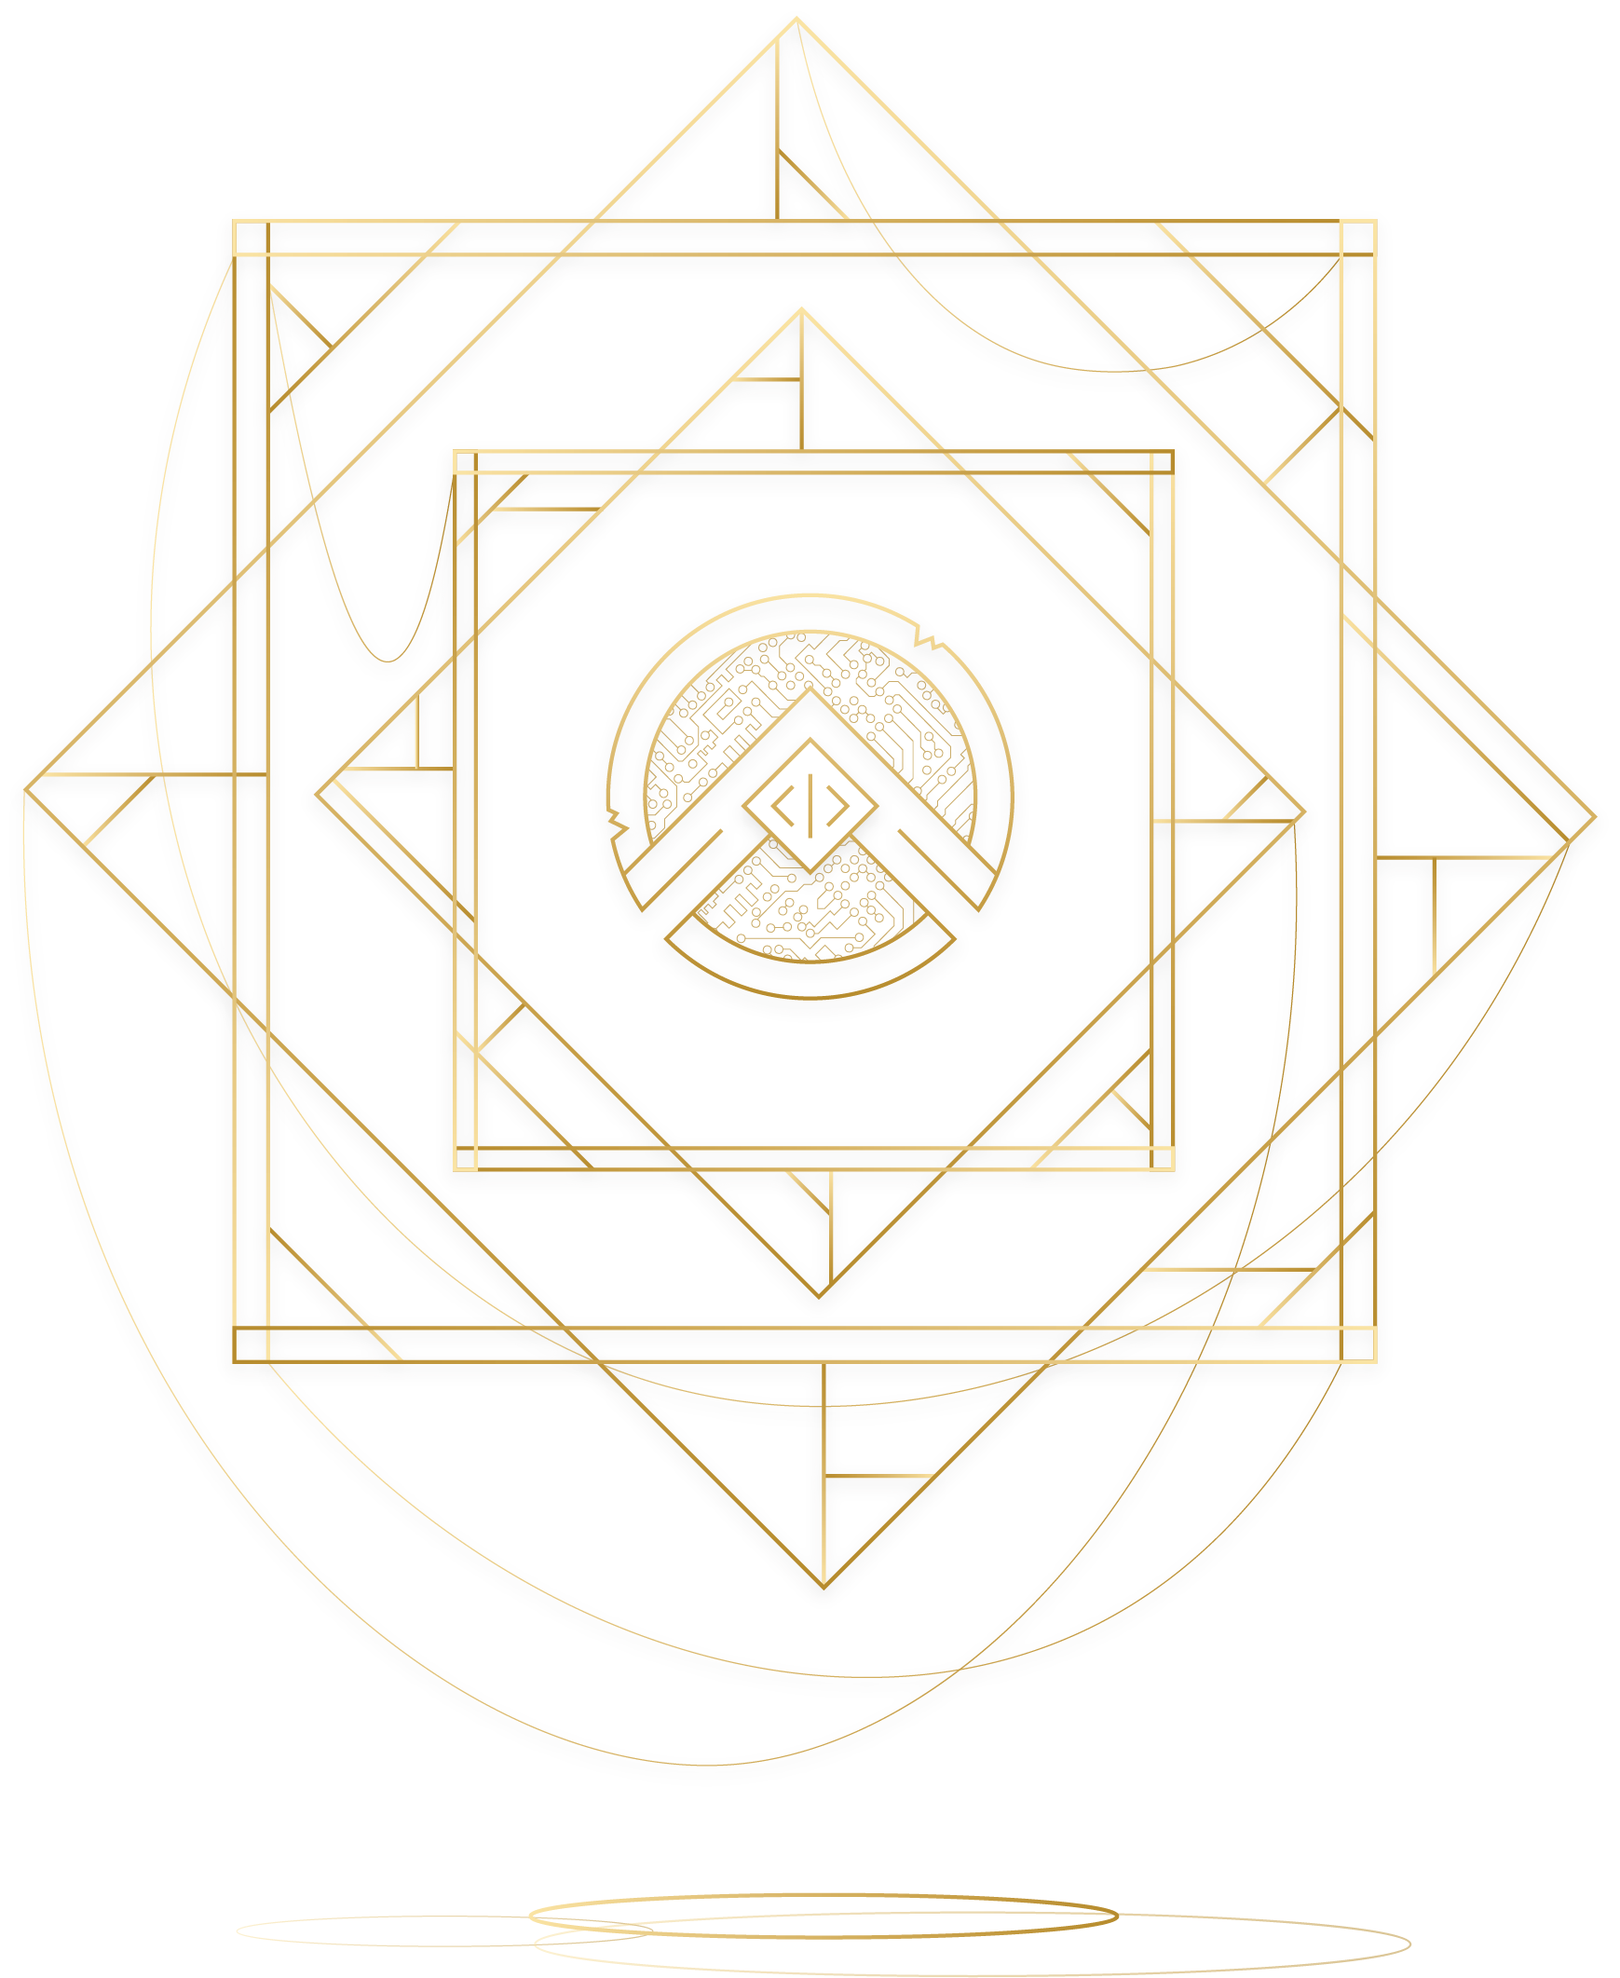
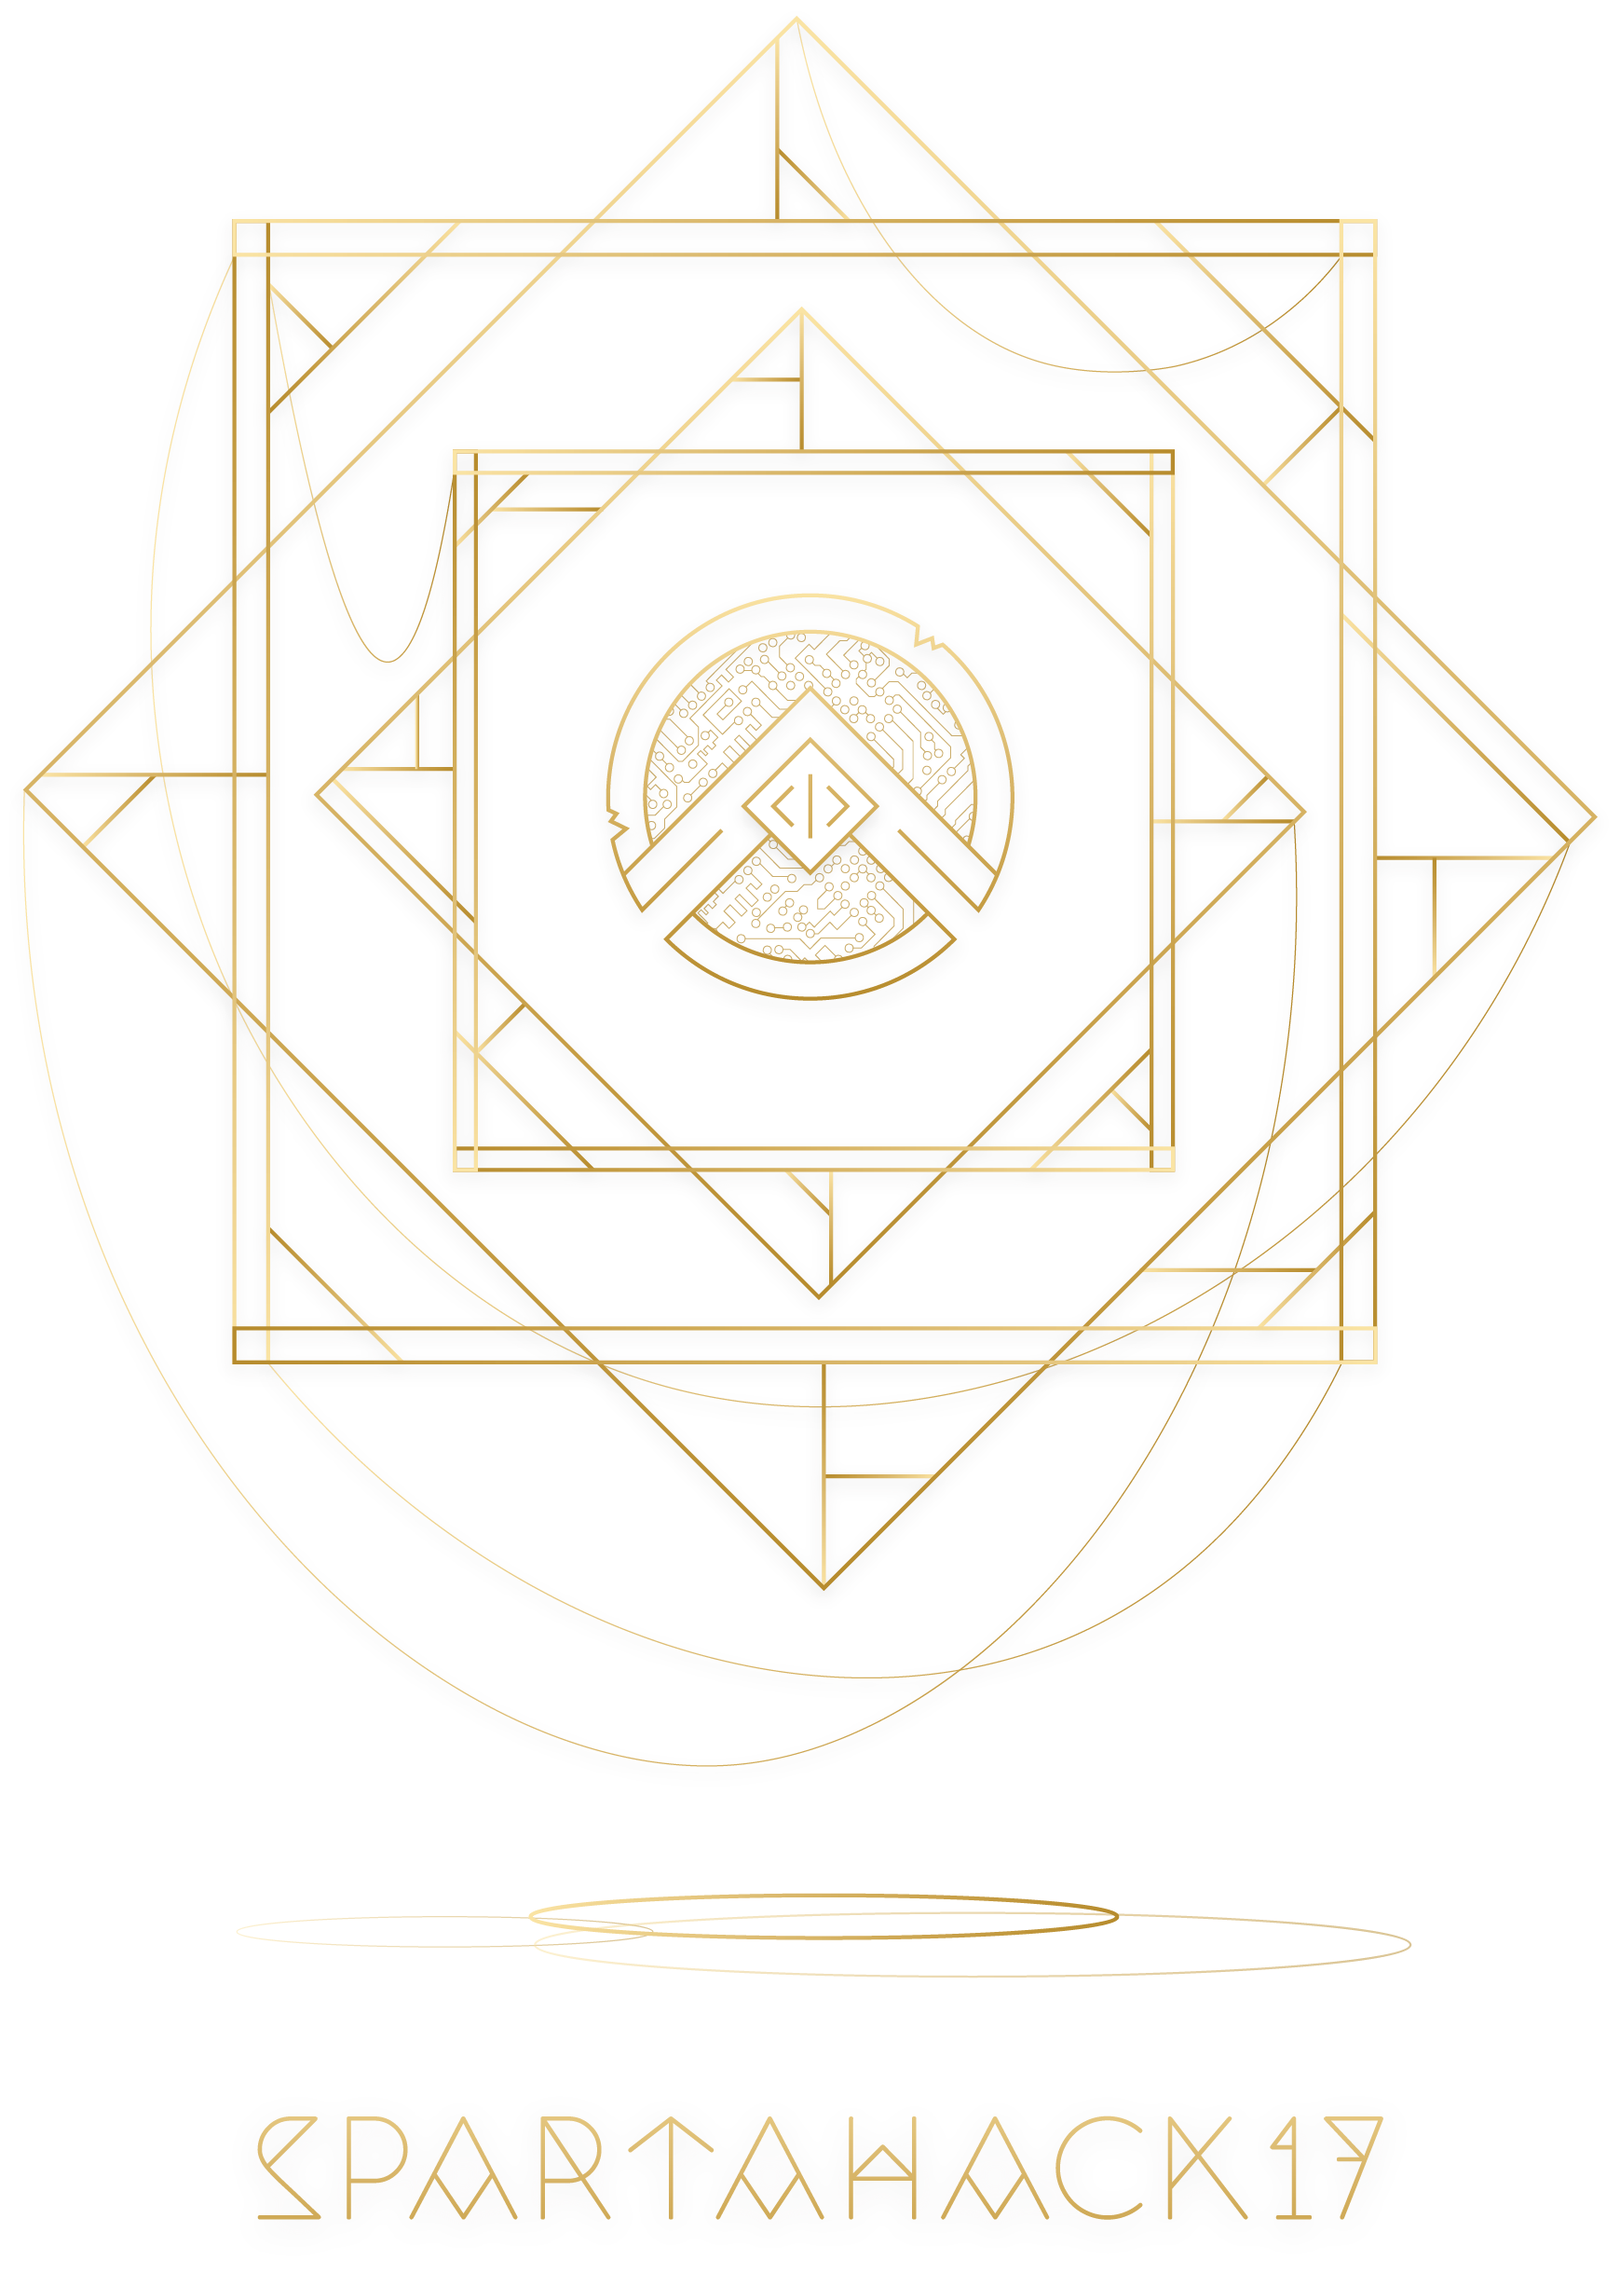
Few Updates to make SpartaHack even more appealing!

diff --git a/pages/spartahack.php b/pages/spartahack.php
@@ -26,16 +26,18 @@
 			<div class="project-frame" id="<>">
 				
 				<div class="project-cover spartahack">
-					<h1> </h1>
-					<h2> </h2></div>
+					<h1>SpartaHack17</h1>
+					<h2>Brand design for the hackathon, SpartaHack.</h2></div>
 				
 				<div class="project-content">
 					
-					<a href="#img1"><img class="no-shadow no-top" src="../style/imgs/projects/spartahack/1.png"/></a>
+					<p class="no-top">Content Coming Soon. Lorem ipsum dolor sit amet, consectetur adipiscing elit, sed do eiusmod tempor incididunt ut labore et dolore magna aliqua. Ut enim ad minim veniam, quis nostrud exercitation ullamco laboris nisi ut aliquip ex ea commodo consequat. Duis aute irure dolor in reprehenderit in voluptate velit esse cillum dolore eu fugiat nulla pariatur. Excepteur sint occaecat cupidatat non proident, sunt in culpa qui officia deserunt mollit anim id est laborum.</p>
+					
+					<a href="#img1"><img class="no-shadow" src="../style/imgs/projects/spartahack/1.png"/></a>
 					<a href="#_" class="lightbox" id="img1"><img src="../style/imgs/projects/spartahack/1.png"></a>
 							
-					<a href="#img2"><img class="no-shadow" src="../style/imgs/projects/spartahack/2.png"/></a>
-					<a href="#_" class="lightbox" id="img2"><img src="../style/imgs/projects/spartahack/2.png"></a>
+					<a href="#img2"><img class="no-shadow" src="../style/imgs/projects/spartahack/2.jpg"/></a>
+					<a href="#_" class="lightbox" id="img2"><img src="../style/imgs/projects/spartahack/2.jpg"></a>
 					
 					<a href="#img3"><img src="../style/imgs/projects/spartahack/3.jpg"/></a>
 					<a href="#_" class="lightbox" id="img3"><img src="../style/imgs/projects/spartahack/3.jpg"></a>

diff --git a/index.php b/index.php
@@ -33,7 +33,7 @@
 			<div class="tiles"><ul>
 					<li class="tile"><a href="pages/halo.php#<>"><div class="overlay"></div><img src="style/imgs/tiles/halo.png"/></a></li>
 					<li class="tile"><a href="pages/2030.php#<>"><div class="overlay"></div><img src="style/imgs/tiles/2030.png"/></a></li>
-					<li class="tile"><a href="pages/spartahack.php#<>"><div class="overlay"></div><img src="style/imgs/tiles/spartahack.png"/></a></li>
+					<li class="tile"><a href="pages/kresgo.php#<>"><div class="overlay"></div><img src="style/imgs/tiles/kresgo.png"/></a></li>
 					<li class="tile"><a href="pages/catastrophe.php#<>"><div class="overlay"></div><img src="style/imgs/tiles/catastrophe.png"/></a></li>
 					<li class="tile"><a href="pages/videno.php#<>"><div class="overlay"></div><img src="style/imgs/tiles/videno.png"/></a></li>
 					<div class="view-all-work"><div><a href="pages/-work.php" class="link-action">View All Work</a></div></div></ul></div>

diff --git a/includes/featured.php b/includes/featured.php
@@ -2,7 +2,7 @@
 	<ul>
 		<li class="tile"><a href="halo.php#<>"><div class="overlay"></div><img src="../style/imgs/tiles/halo.png"/></a></li>
 		<li class="tile"><a href="2030.php#<>"><div class="overlay"></div><img src="../style/imgs/tiles/2030.png"/></a></li>
-		<li class="tile"><a href="spartahack.php#<>"><div class="overlay"></div><img src="../style/imgs/tiles/spartahack.png"/></a></li>
+		<li class="tile"><a href="kresgo.php#<>"><div class="overlay"></div><img src="../style/imgs/tiles/kresgo.png"/></a></li>
 		<li class="tile"><a href="catastrophe.php#<>"><div class="overlay"></div><img src="../style/imgs/tiles/catastrophe.png"/></a></li>
 		<li class="tile"><a href="videno.php#<>"><div class="overlay"></div><img src="../style/imgs/tiles/videno.png"/></a></li>
 		<div class="view-all-work"><div><a href="-work.php" class="link-action">View All Work</a></div></div></ul>
